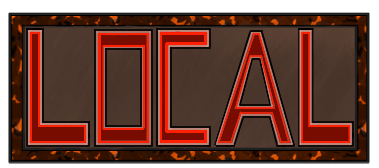
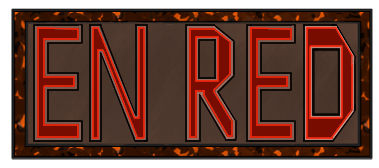
Selección de modos hecha

diff --git a/Juego/ModeSelectionMenu.js b/Juego/ModeSelectionMenu.js
@@ -1,0 +1,41 @@
+"use strict";
+
+
+export default class ModeSelectionMenu extends Phaser.Scene {
+    constructor() {
+        super('ModeSelectionMenu');
+    }
+
+    create() {
+        this.rect = this.add.rectangle(960, 540, 1000, 600, 0x000000);
+        this.rect.alpha = 0.8
+
+        var volverButton = this.add.image(1300, 790, 'botonVolver').setScale(0.5).setInteractive();//Creacion y funcionalidad del boton volver
+        volverButton.on('pointerdown', () => this.returnToMenu());
+        volverButton.on('pointerover', function () { volverButton.setScale(0.52) });
+        volverButton.on('pointerout', function () { volverButton.setScale(0.5) });
+
+        var localButton = this.add.image(750, 540, 'botonLocal').setInteractive();//Creacion y funcionalidad del boton Local
+        localButton.on('pointerdown', () => this.startLocal());
+        localButton.on('pointerover', function () { localButton.setScale(1.1) });
+        localButton.on('pointerout', function () { localButton.setScale(1) });
+
+        var netButton = this.add.image(1170, 540, 'botonEnRed').setInteractive();//Creacion y funcionalidad del boton En Red
+        netButton.on('pointerdown', () => this.startNet());
+        netButton.on('pointerover', function () { netButton.setScale(1.1) });
+        netButton.on('pointerout', function () { netButton.setScale(1) });
+    }
+    returnToMenu() {
+        this.scene.resume('MainMenu');
+        this.scene.sleep();
+    }
+    startLocal() {
+        this.scene.start('PlayerSelectionMenu');
+    }
+    startNet() {
+        //Para cuando se haga
+    }
+
+
+}
+

diff --git a/Juego/main.js b/Juego/main.js
@@ -5,6 +5,7 @@ import MainMenu from './MainMenu.js';
 import SettingsMenu from './SettingsMenu.js';
 import PlayerSelectionMenu from './PlayerSelectionMenu.js';
 import AudioManager from './AudioManager.js';
+import ModeSelectionMenu from './ModeSelectionMenu.js';
 import MapSelectionMenu from './MapSelectionMenu.js';
 import Game from './Game.js';
 import Results from './Results.js';
@@ -14,7 +15,7 @@ const config = { //Configuración general
     width: 1920,
     height: 1080,
     backgroundColor: '#000000',
-    scene: [ Preloader, MainMenu, SettingsMenu, AudioManager, PlayerSelectionMenu, MapSelectionMenu, Game, Results], //Escenas, Preloader está primero, se cargara Preloader primero
+    scene: [ Preloader, MainMenu, SettingsMenu, AudioManager, ModeSelectionMenu, PlayerSelectionMenu, MapSelectionMenu, Game, Results], //Escenas, Preloader está primero, se cargara Preloader primero
     scale:{
         mode: Phaser.Scale.FIT,
         autoCenter: Phaser.Scale.CENTER_BOTH

diff --git a/Juego/MainMenu.js b/Juego/MainMenu.js
@@ -37,7 +37,8 @@ export default class MainMenu extends Phaser.Scene {
 
     playOnClick() { //Esta es la función que hace el boton de jugar al pulsarse
 
-        this.scene.start('PlayerSelectionMenu');
+        this.scene.run('ModeSelectionMenu');
+        this.scene.pause();
     }
     settingsOnClick() { //Esta es la función que hace el boton de ajustes al pulsarse
         this.scene.run('SettingsMenu');
